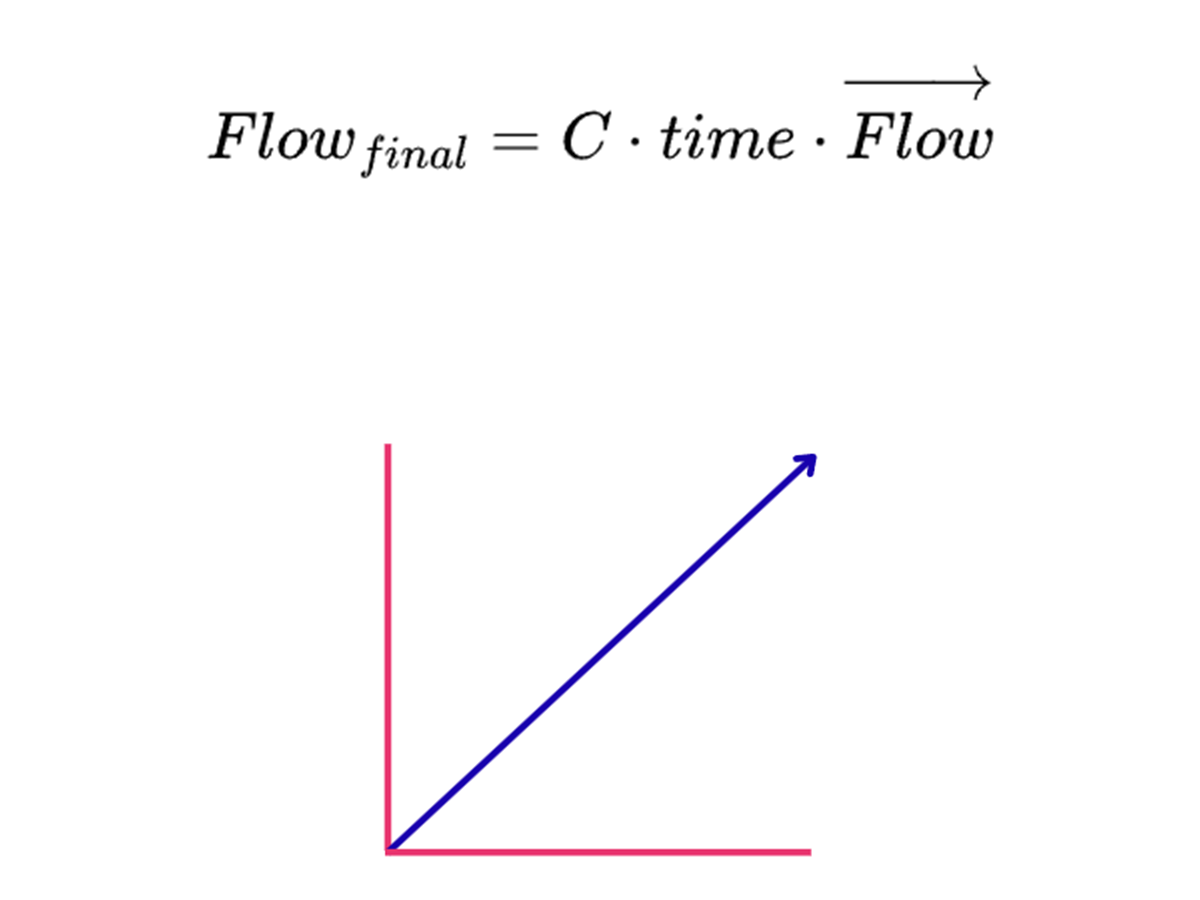
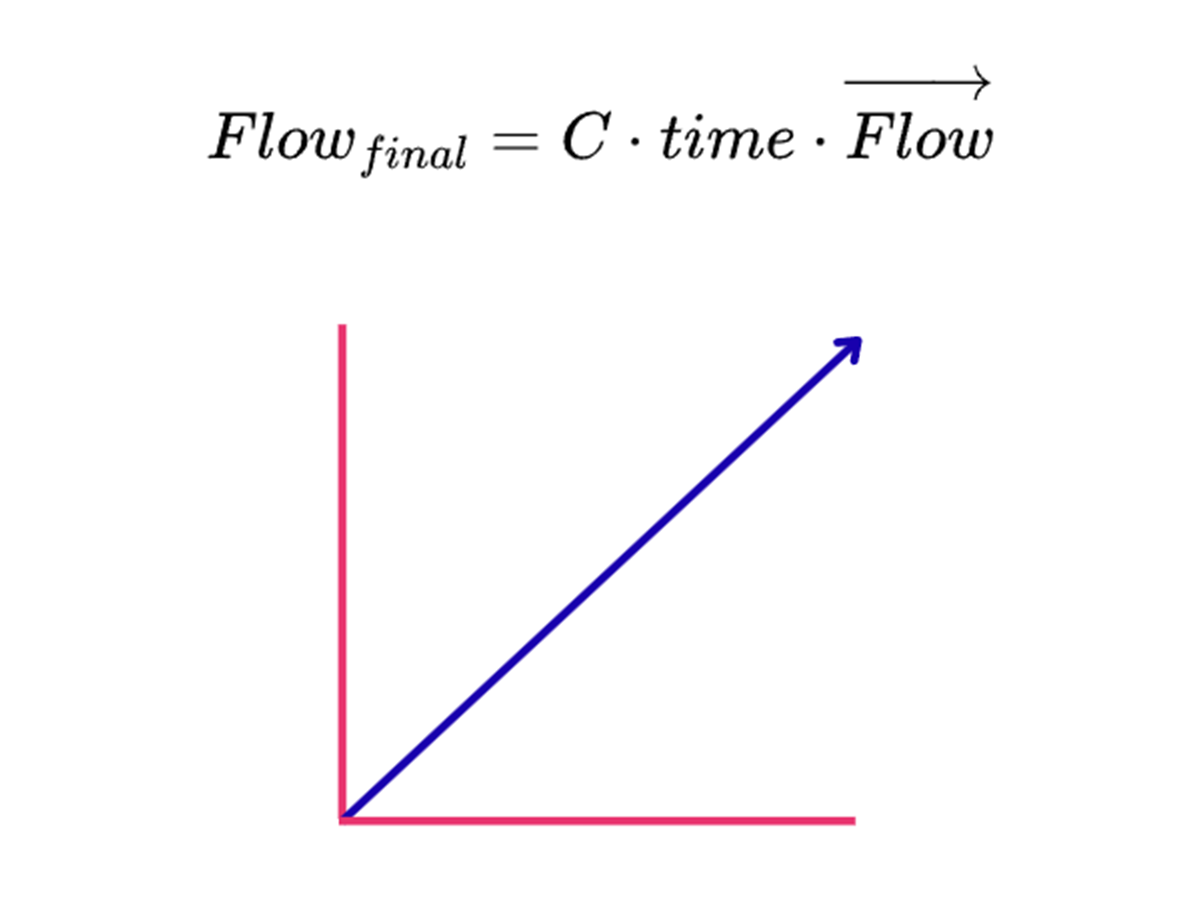
Tighten continuous diagram spacing

diff --git a/volumetric-super-storm.html b/volumetric-super-storm.html
@@ -126,7 +126,7 @@
         <li class="challenge-stage">
           <figure class="challenge-stage-visual">
             <div class="challenge-stage-image">
-              <img src="assets/images/noise-scroll-continuous.png" alt="A time-based flow equation above a graph whose sampling offset increases continuously." width="1200" height="900" loading="lazy" decoding="async">
+              <img src="assets/images/noise-scroll-continuous.png?v=20260913-2" alt="A time-based flow equation above a graph whose sampling offset increases continuously." width="1200" height="900" loading="lazy" decoding="async">
             </div>
             <figcaption>Time-scaled flow produces smooth motion but unbounded coordinates</figcaption>
           </figure>
